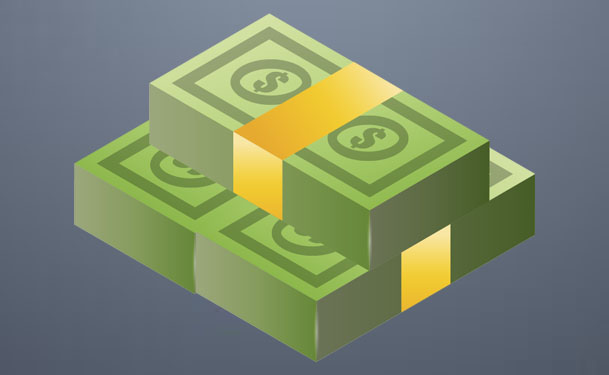
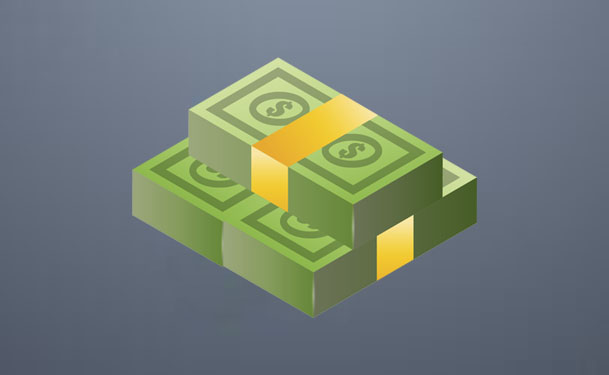
textos

diff --git a/index.html b/index.html
@@ -375,14 +375,14 @@
       <div class="row " data-aos="fade-up" data-aos-delay="200">
         <div class="col-lg-3 col-md-6 portfolio-item filter-bicis">
           <div class="portfolio-wrap">
-            <img class="card-img-top" src="assets/img/samp/vehiculos/bmx.jpg" alt="Turismo">
+            <img class="card-img-top" src="assets/img/samp/dinero/monedas.jpg" alt="Turismo">
             <div class="card-body">
-              <h5 class="card-title">BMX</h5>
-              <p class="card-text">ID 481 </p>
+              <h5 class="card-title">Monedas</h5>
+              <p class="card-text"><strong>1.000.000</strong></p>
               <form id="formularioCompra" method="post" action="https://titaniumgamers.com/"
                 onsubmit="return comprar(comp.value);">
-                <input type="radio" id="" name="comp" value="1"> Precio con VIP: <strong>1€</strong></br></br>
-                <input type="radio" id="" name="comp" value="2"> Precio sin VIP: <strong>2€</strong></br></br>
+                <input type="hidden" id="" name="comp" value="2"> Precio: <strong>2€</strong></br></br>
+                <!-- <input type="radio" id="" name="comp" value="2"> Precio sin VIP: <strong>2€</strong></br></br> -->
                 <button type="submit" onclick="" value="comp.value" class="btn btn-primary btn-pill"><i
                     class="fa fa-shopping-cart text-white"></i>&ensp;Comprar</button>
               </form>
@@ -391,14 +391,14 @@
         </div>
         <div class="col-lg-3 col-md-6 portfolio-item filter-bicis">
           <div class="portfolio-wrap">
-            <img class="card-img-top" src="assets/img/samp/vehiculos/bmx.jpg" alt="Turismo">
+            <img class="card-img-top" src="assets/img/samp/dinero/billetes.jpg" alt="Turismo">
             <div class="card-body">
-              <h5 class="card-title">BMX</h5>
-              <p class="card-text">ID 481 </p>
+              <h5 class="card-title">Billetes</h5>
+              <p class="card-text"><strong>5.000.000</strong></p>
               <form id="formularioCompra" method="post" action="https://titaniumgamers.com/"
                 onsubmit="return comprar(comp.value);">
-                <input type="radio" id="" name="comp" value="1"> Precio con VIP: <strong>1€</strong></br></br>
-                <input type="radio" id="" name="comp" value="2"> Precio sin VIP: <strong>2€</strong></br></br>
+                <input type="hidden" id="" name="comp" value="10"> Precio: <strong>10€</strong></br></br>
+                <!-- <input type="radio" id="" name="comp" value="2"> Precio sin VIP: <strong>2€</strong></br></br> -->
                 <button type="submit" onclick="" value="comp.value" class="btn btn-primary btn-pill"><i
                     class="fa fa-shopping-cart text-white"></i>&ensp;Comprar</button>
               </form>
@@ -407,14 +407,14 @@
         </div>
         <div class="col-lg-3 col-md-6 portfolio-item filter-bicis">
           <div class="portfolio-wrap">
-            <img class="card-img-top" src="assets/img/samp/vehiculos/bmx.jpg" alt="Turismo">
+            <img class="card-img-top" src="assets/img/samp/dinero/saco.jpg" alt="Turismo">
             <div class="card-body">
-              <h5 class="card-title">BMX</h5>
-              <p class="card-text">ID 481 </p>
+              <h5 class="card-title">Saco</h5>
+              <p class="card-text"><strong>10.000.000</strong></p>
               <form id="formularioCompra" method="post" action="https://titaniumgamers.com/"
                 onsubmit="return comprar(comp.value);">
-                <input type="radio" id="" name="comp" value="1"> Precio con VIP: <strong>1€</strong></br></br>
-                <input type="radio" id="" name="comp" value="2"> Precio sin VIP: <strong>2€</strong></br></br>
+                <input type="hidden" id="" name="comp" value="20"> Precio: <strong>20€</strong></br></br>
+                <!-- <input type="radio" id="" name="comp" value="2"> Precio sin VIP: <strong>2€</strong></br></br> -->
                 <button type="submit" onclick="" value="comp.value" class="btn btn-primary btn-pill"><i
                     class="fa fa-shopping-cart text-white"></i>&ensp;Comprar</button>
               </form>
@@ -423,14 +423,14 @@
         </div>
         <div class="col-lg-3 col-md-6 portfolio-item filter-bicis">
           <div class="portfolio-wrap">
-            <img class="card-img-top" src="assets/img/samp/vehiculos/bmx.jpg" alt="Turismo">
+            <img class="card-img-top" src="assets/img/samp/dinero/sacoMonedasBillete.jpg" alt="Turismo">
             <div class="card-body">
-              <h5 class="card-title">BMX</h5>
-              <p class="card-text">ID 481 </p>
+              <h5 class="card-title">Monton</h5>
+              <p class="card-text"><strong>20.000.000</strong></p>
               <form id="formularioCompra" method="post" action="https://titaniumgamers.com/"
                 onsubmit="return comprar(comp.value);">
-                <input type="radio" id="" name="comp" value="1"> Precio con VIP: <strong>1€</strong></br></br>
-                <input type="radio" id="" name="comp" value="2"> Precio sin VIP: <strong>2€</strong></br></br>
+                <input type="hidden" id="" name="comp" value="40"> Precio: <strong>40€</strong></br></br>
+                <!-- <input type="radio" id="" name="comp" value="2"> Precio sin VIP: <strong>2€</strong></br></br> -->
                 <button type="submit" onclick="" value="comp.value" class="btn btn-primary btn-pill"><i
                     class="fa fa-shopping-cart text-white"></i>&ensp;Comprar</button>
               </form>
@@ -460,9 +460,9 @@
           </ul>
         </div>
       </div>
-<!-- antigua -->
-    <!-- <div class="row portfolio-container " data-aos="fade-up" data-aos-delay="200"> -->
-        <div class="row" data-aos="fade-up" data-aos-delay="200">
+      <!-- antigua -->
+      <!-- <div class="row portfolio-container " data-aos="fade-up" data-aos-delay="200"> -->
+      <div class="row" data-aos="fade-up" data-aos-delay="200">
 
         <div class="col-lg-3 col-md-6 portfolio-item filter-bicis filter-lowCost">
           <div class="portfolio-wrap">
@@ -1365,9 +1365,8 @@
       <div class="container" data-aos="fade-up">
 
         <div class="section-title">
-          <h2>¿Cómo adquirir VIP?</h2>
-          <p>A continuación, te presentaremos los pasos a seguir para adquirir tu paquete VIP, o para comprar
-            cualquier elemento de la tienda VIP.</p>
+          <h2>¿Cómo adquirir articulos de la tienda?</h2>
+          <p>A continuación, te presentaremos los pasos a seguir para adquirir tu paquete VIP, o cualquier elemento de la tienda.</p>
         </div>
 
         <!-- <div class="row"> -->
@@ -1377,18 +1376,16 @@
             <h3 class="resume-title">Pasos a seguir</h3>
             <div class="resume-item">
               <p><strong>Hacer la donación</strong></p>
-              <p><em>Primero debes hacer la donación en Paypal. Guardar siempre el comprobante
-                  pora cualquier reclamación.</em></p>
+              <p><em>Inmediatamente despues de hacer la donación en Paypal, envía el comprobante acompañado con tu nombre IC y el artículo deseado a <a href="https://titaniumgamers.com/index.php/formulario/">titaniumgamersrp@gmail.com</a> por medio de nuestro formulario y guardalo para cualquier tipo de reclamación.</em></p>
+                  
             </div>
             <div class="resume-item">
               <p><strong>Contacta con los administradores</strong></p>
-              <p><em>Contacta en el servidor con los administradotres o en discord Micro #7471 y da aviso de tu compra,
-                  acompañado con
-                  tu nombre IC. </em></p>
+              <p><em>Contacta con los administradotres en el servidor, busacalos con /staff, en el <a href="https://titaniumgamers.es/">foro</a> o en <a href="https://discord.gg/tGZGEn5">discord</a> Micro #7471 y da aviso de la donación.</em></p>
             </div>
             <div class="resume-item">
               <p><strong>Recibe tu regalo</strong></p>
-              <p><em>Tras acreditar la información de la donación obtendrás tu regalo en un plazo maximo de 48
+              <p><em>Tras acreditar la información de la donación obtendrás tu regalo virtual en un plazo maximo de 48
                   horas.</em>
               </p>
             </div>
